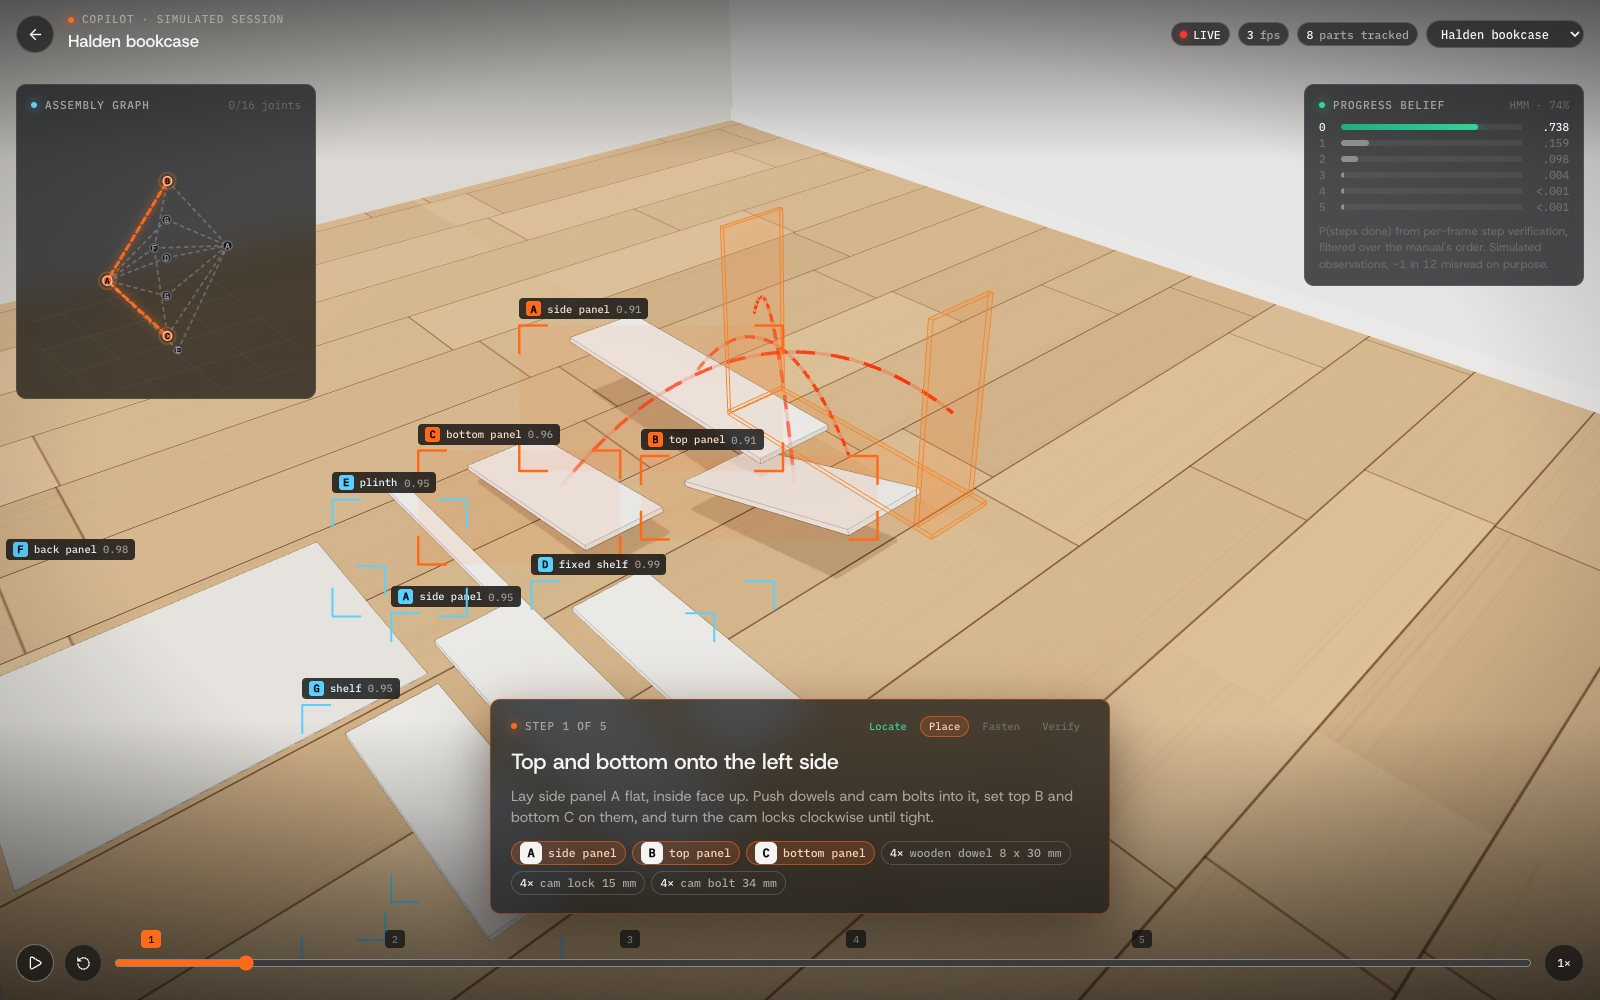
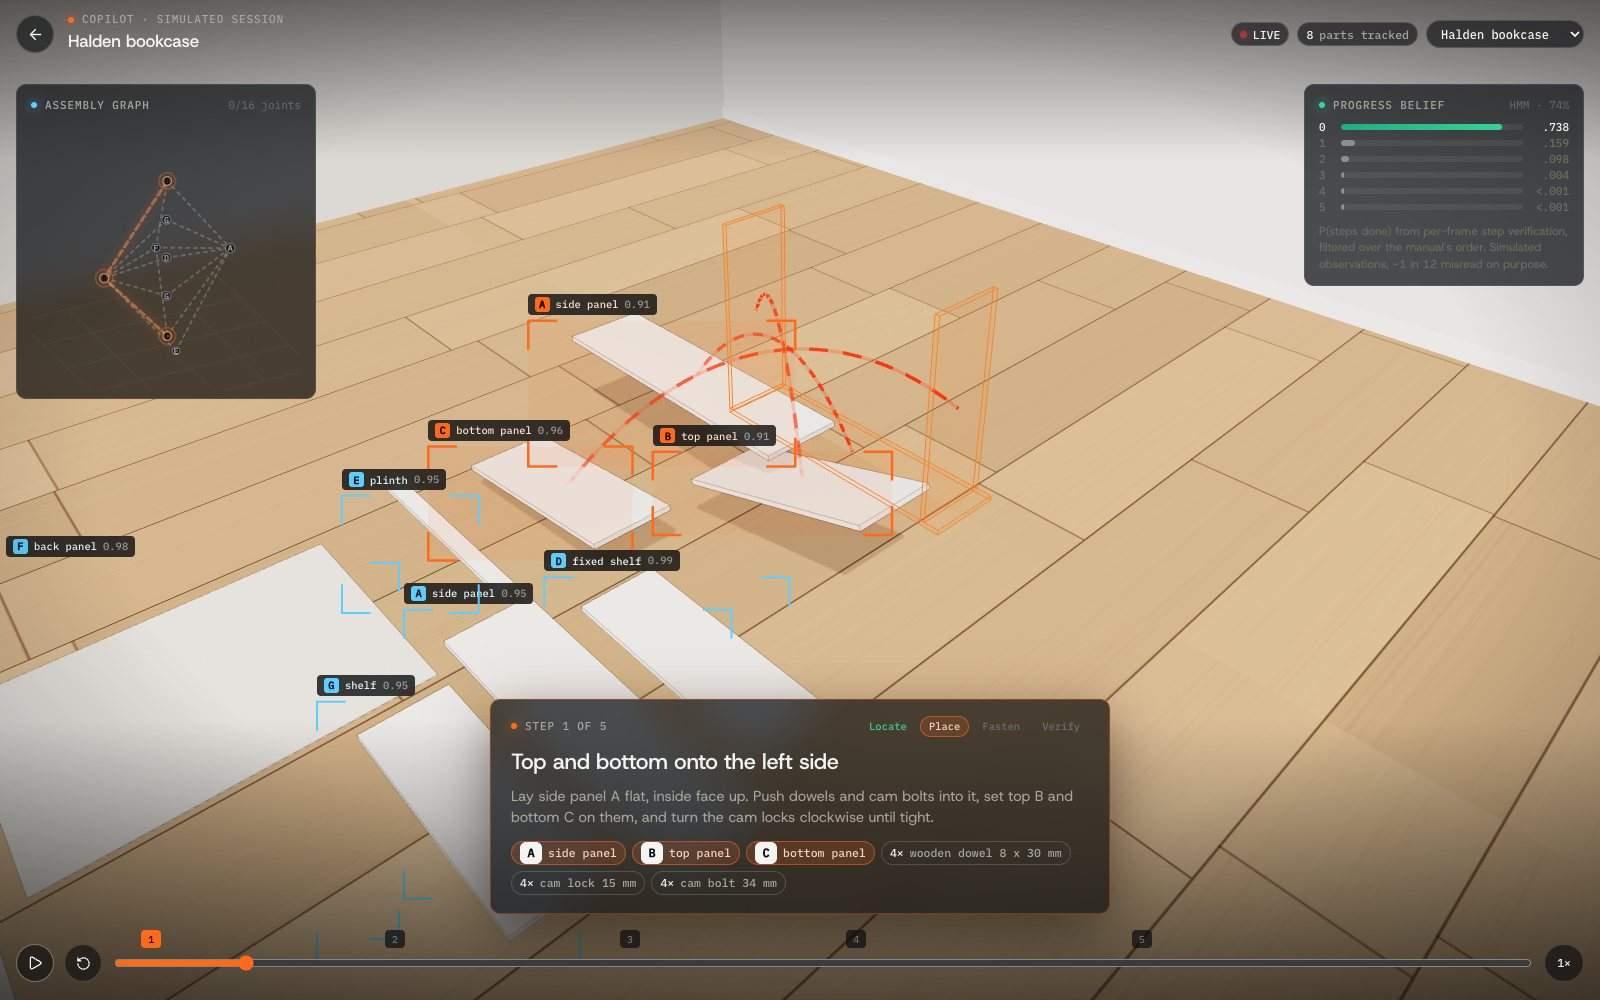
Drop the frame-rate chip from the copilot HUD
It measured the browser, not the copilot, and read low in captures; the HUD keeps what the
copilot sees: parts tracked, the graph and the belief. The poster is re-shot without it.

diff --git a/frontend/src/pages/ArDemo.tsx b/frontend/src/pages/ArDemo.tsx
@@ -35,7 +35,6 @@ export function ArDemo({ furniture }: { furniture: string }) {
   const [frame, setFrame] = useState<FrameInfo | null>(null);
   const [playing, setPlaying] = useState(true);
   const [speed, setSpeed] = useState(1);
-  const [fps, setFps] = useState(0);
   const [track, setTrack] = useState<SimulatedTrack | null>(null);
   const playingRef = useRef(playing);
   const speedRef = useRef(speed);
@@ -63,8 +62,6 @@ export function ArDemo({ furniture }: { furniture: string }) {
     timeRef.current = 0;
     let last = performance.now();
     let hudAt = 0;
-    let frames = 0;
-    let fpsAt = last;
     let raf = 0;
     const loop = (now: number) => {
       const dt = Math.min(0.1, Math.max(0, (now - last) / 1000));
@@ -75,12 +72,6 @@ export function ArDemo({ furniture }: { furniture: string }) {
       }
       const info = stage.update(timeRef.current, now / 1000);
       stage.render();
-      frames++;
-      if (now - fpsAt > 500) {
-        setFps(Math.round((frames * 1000) / (now - fpsAt)));
-        frames = 0;
-        fpsAt = now;
-      }
       if (now - hudAt > HUD_MS) {
         hudAt = now;
         setFrame(info);
@@ -132,9 +123,6 @@ export function ArDemo({ furniture }: { furniture: string }) {
         <div className="ar-status">
           <span className="chip">
             <span className="rec" /> <b>LIVE</b>
-          </span>
-          <span className="chip">
-            <b>{fps}</b> fps
           </span>
           <span className="chip">
             <b>{tracked}</b> {tracked === 1 ? 'part' : 'parts'} tracked
